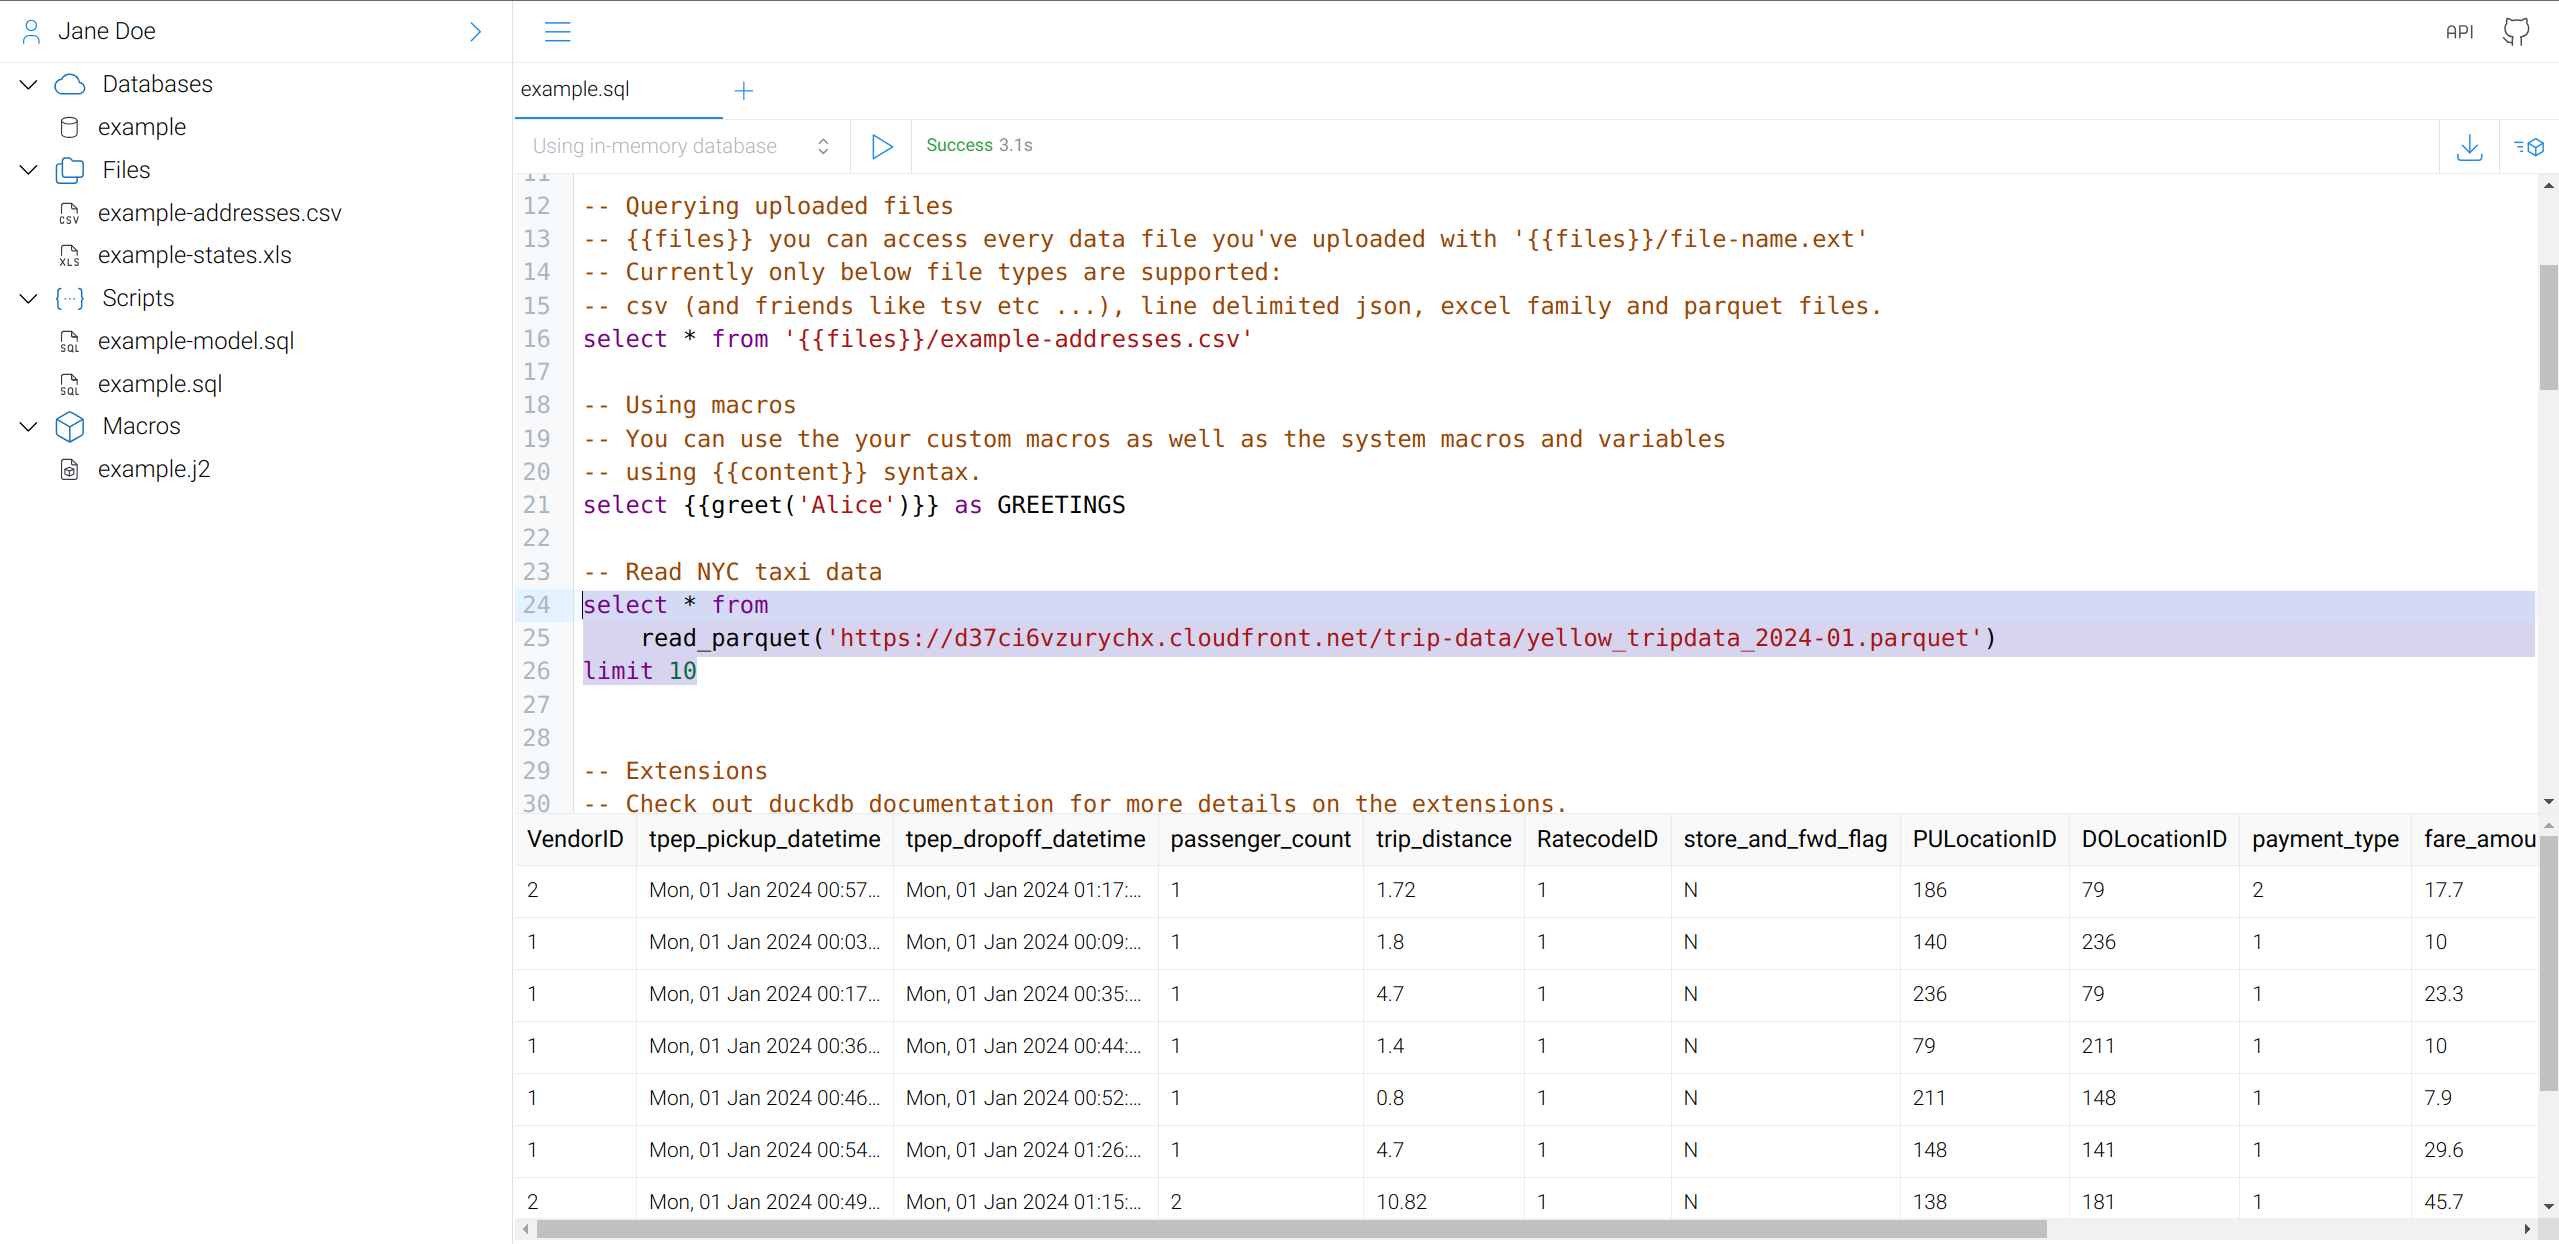
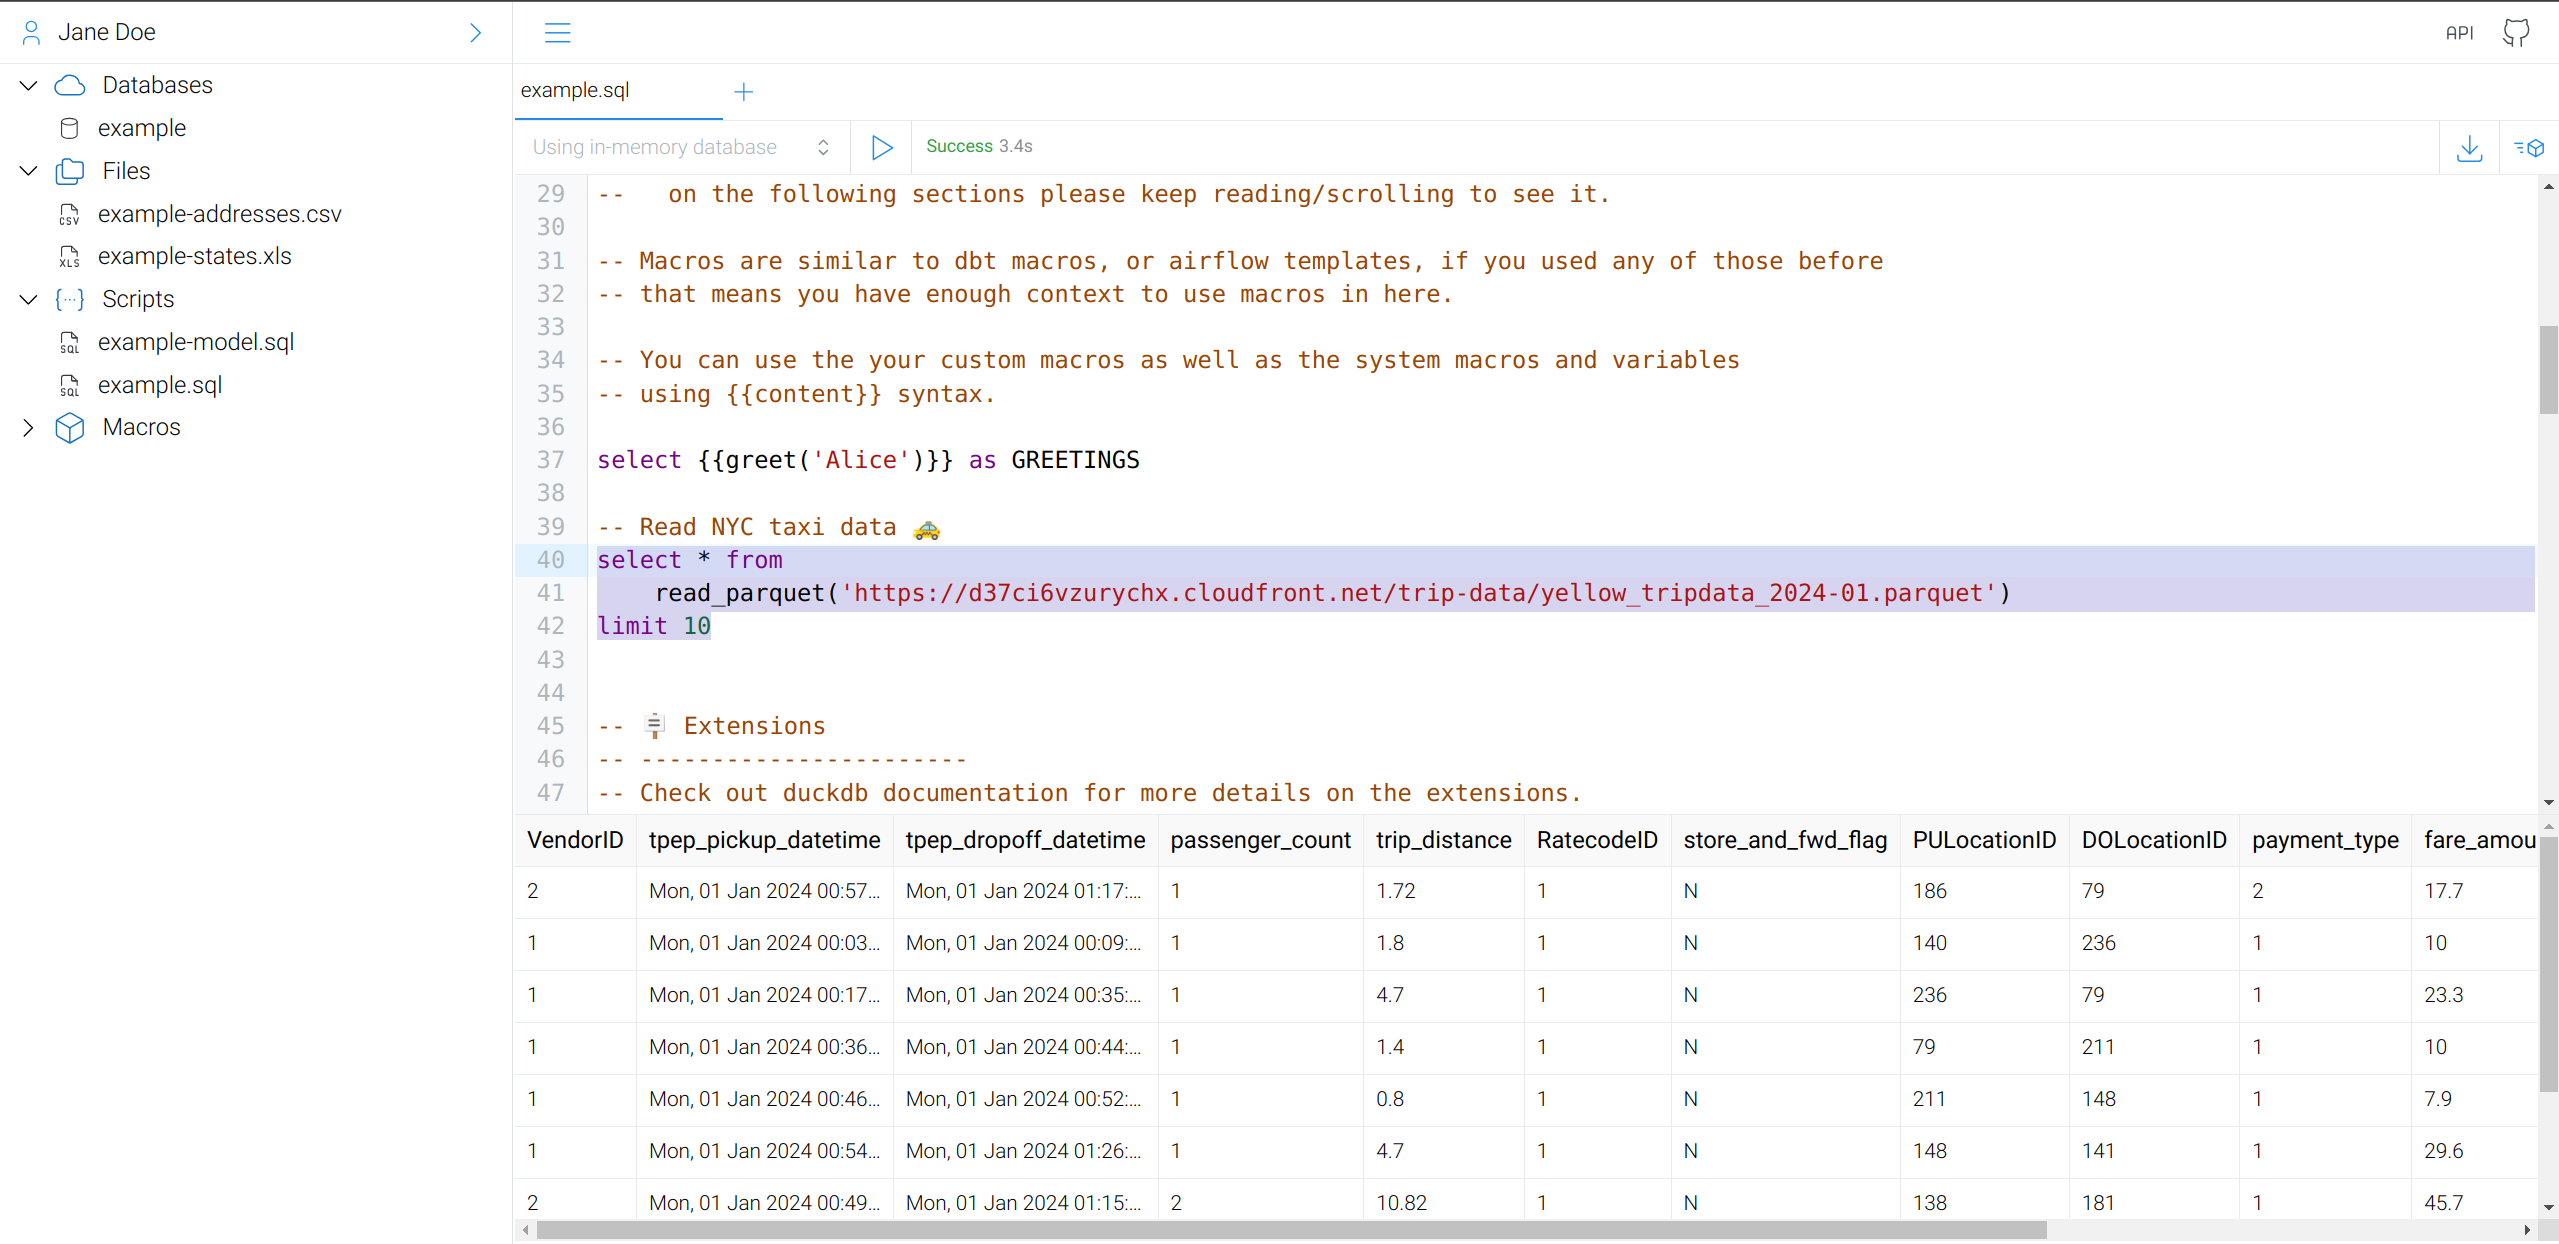
exmaples

diff --git a/owl/webapp/src/components/Editor/Body/File/Script/ScriptToolbar.tsx b/owl/webapp/src/components/Editor/Body/File/Script/ScriptToolbar.tsx
@@ -35,7 +35,6 @@ interface IExecutionStatsProps {
 }
 
 const Stats: FC<IExecutionStatsProps> = ({ stats }) => {
-  console.log(stats);
   if (stats != null) {
     return (
       <Box

diff --git a/owl/server/app/examples/example_content.py b/owl/server/app/examples/example_content.py
@@ -94,17 +94,20 @@ STATES = [
 
 BASIC_SCRIPT = dedent(
     """
--- ! If you have multiple statements on the script, you need to select the one to execute.
+-- 👋 Hello there,
+-- This script contains example use cases and related sample queries.
+
+-- 💡 If you have multiple statements on the script, you need to select the one to execute.
 -- You can render the actual script that is going to be executed by using the "cube" button
 -- on top-right
 -- You can download the result-set using the download button on the top-right
--- Check duckdb documentation for the available functions and syntax, https://duckdb.org/docs/
+-- 🦆 Check duckdb documentation for the available functions and syntax, https://duckdb.org/docs/
 
--- Shortcuts
+-- 🪧 Keyboard shortcuts
 -- -----------------------
-- `Command-\`, `CTRL-\`: Render resolved selected statement or entire script if no selection.
-- `Command-Enter`, `CTRL-Enter` : Execute selected statement or entire script if no selection.
-- `Command-S`, `CTRL-S` : Save content
+-- `Command-\`, `CTRL-\`: Render resolved selected statement or entire script if no selection.
+-- `Command-Enter`, `CTRL-Enter` : Execute selected statement or entire script if no selection.
+-- `Command-S`, `CTRL-S` : Save content
 
 
 -- Simple select statement
@@ -116,25 +119,32 @@ select 10 as MY_NUMBER
 -- csv (and friends like tsv etc ...), line delimited json, excel family and parquet files.
 select * from '{{files}}/example-addresses.csv'
 
--- Using macros
+-- 🪧 Using macros
 -- -----------------------
+-- ❗This is different than duckdb macros, there is example for duckdb macros
+--   on the following sections please keep reading/scrolling to see it.
+
+-- Macros are similar to dbt macros, or airflow templates, if you used any of those before
+-- that means you have enough context to use macros in here.
+
 -- You can use the your custom macros as well as the system macros and variables
 -- using {{content}} syntax.
+
 select {{greet('Alice')}} as GREETINGS
 
--- Read NYC taxi data
+-- Read NYC taxi data 🚕
 select * from
     read_parquet('https://d37ci6vzurychx.cloudfront.net/trip-data/yellow_tripdata_2024-01.parquet')
 limit 10
 
 
--- Extensions
+-- 🪧 Extensions
 -- -----------------------
 -- Check out duckdb documentation for more details on the extensions.
 -- https://duckdb.org/docs/extensions/overview.html
 -- Example usage of postgres extension
 
--- Install "postgres" the extension
+-- 🐘 Install "postgres" the extension
 install postgres
 -- Load the postgres extension
 load postgres
@@ -163,7 +173,7 @@ select * from st_read('{{files}}/example-states.xls',
   open_options = ['HEADERS=FORCE']
 )
 
--- Referencing scripts
+-- 🪧 Referencing scripts
 -- -----------------------
 -- You can also use other scripts in your scripts directory as datasets.
 -- see 'example-model.sql'
@@ -171,7 +181,13 @@ select * from st_read('{{files}}/example-states.xls',
 select * from {{ref('example-model')}}
 
 
--- Using persistent databases
+-- 🪧 Querying logs
+-- -----------------------
+-- You can use `logs()` system macro to query the logs
+-- For the actual location and more about logs see the (.env) and/or settings.py files.
+select * from {{logs()}} limit 10
+
+-- 🪧 Using persistent databases
 -- -- -----------------------
 -- ^^^ Select the "example" database from the dropdown above ^^^
 -- There is already a test table called addresses.
@@ -193,6 +209,15 @@ select * from drop_me
 
 -- drop it
 drop table drop_me
+
+-- 🪧 Duckdb macros
+-- --------------------------------
+-- 💡 Make sure you have selected a database from toolbar 👆
+
+create macro add_default(a, b := 5) AS a + b
+
+select add_default(5) my_column
+
 
 -- ^^^ In-memory ^^^
 -- If you don't select any database you can still execute select statements on external resources.

diff --git a/owl/server/tests/integration/test_examples.py b/owl/server/tests/integration/test_examples.py
@@ -18,7 +18,9 @@ def test_generate_databases(use_app_context):
             os.makedirs(os.path.join(temp_dir, "users"), exist_ok=True)
             user = User.create(name="test", email="test@example")
             Examples(user_id=user.id).generate_databases()
-            database = Database.find_by_owner_and_name(owner_id=user.id, name="example")
+            database = Database.find_by_owner_and_name(
+                owner_id=user.id, name="example-db"
+            )
             assert database is not None
             result = database.run(
                 id=database.id,

diff --git a/owl/server/app/examples/examples.py b/owl/server/app/examples/examples.py
@@ -40,7 +40,7 @@ class Examples:
 
     def generate_databases(self) -> "Examples":
         logger.info("Generating databases ...")
-        database = Database(name="example", owner_id=self.user_id)
+        database = Database(name="example-db", owner_id=self.user_id)
         database.create().run(
             id=database.id,
             owner_id=self.user_id,

diff --git a/README.md b/README.md
@@ -51,7 +51,7 @@ owl run
 owl --help
 ```
 
-![Example 1](./doc/static/img/exmaples/example.png)
+![Example 2](./doc/static/img/exmaples/example.png)
 
 
 See `.env` file for configuration options.
